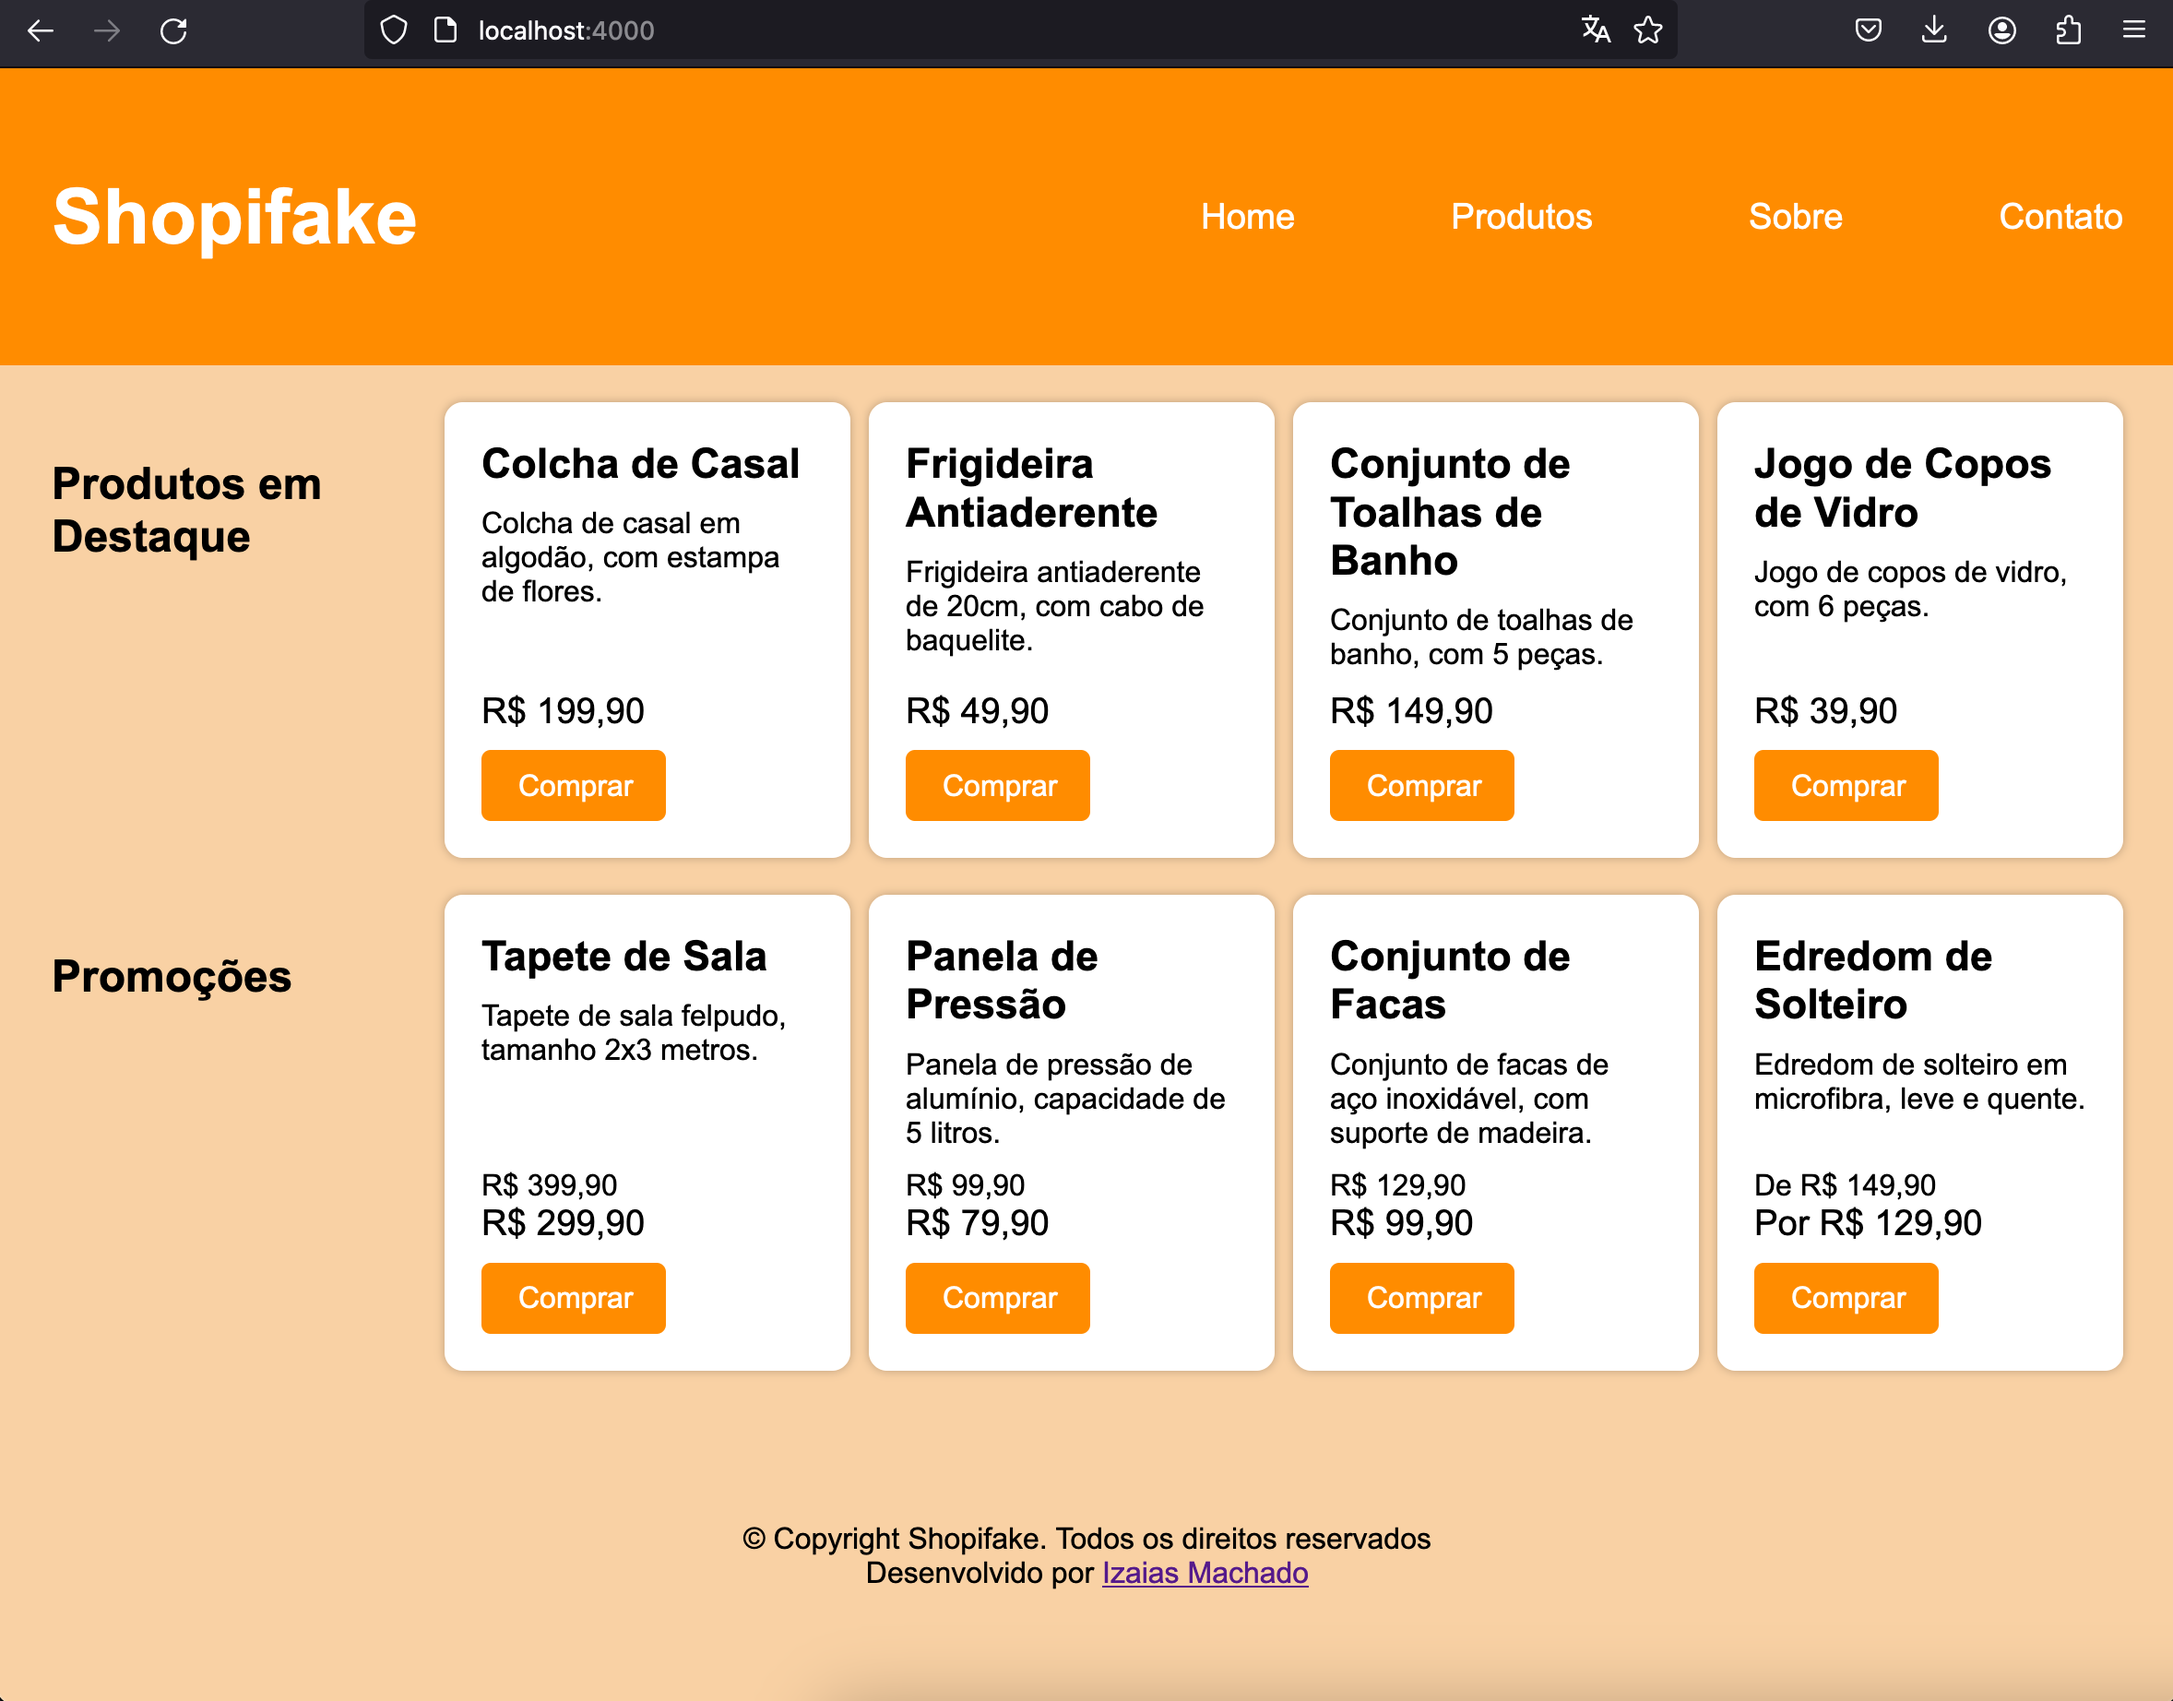
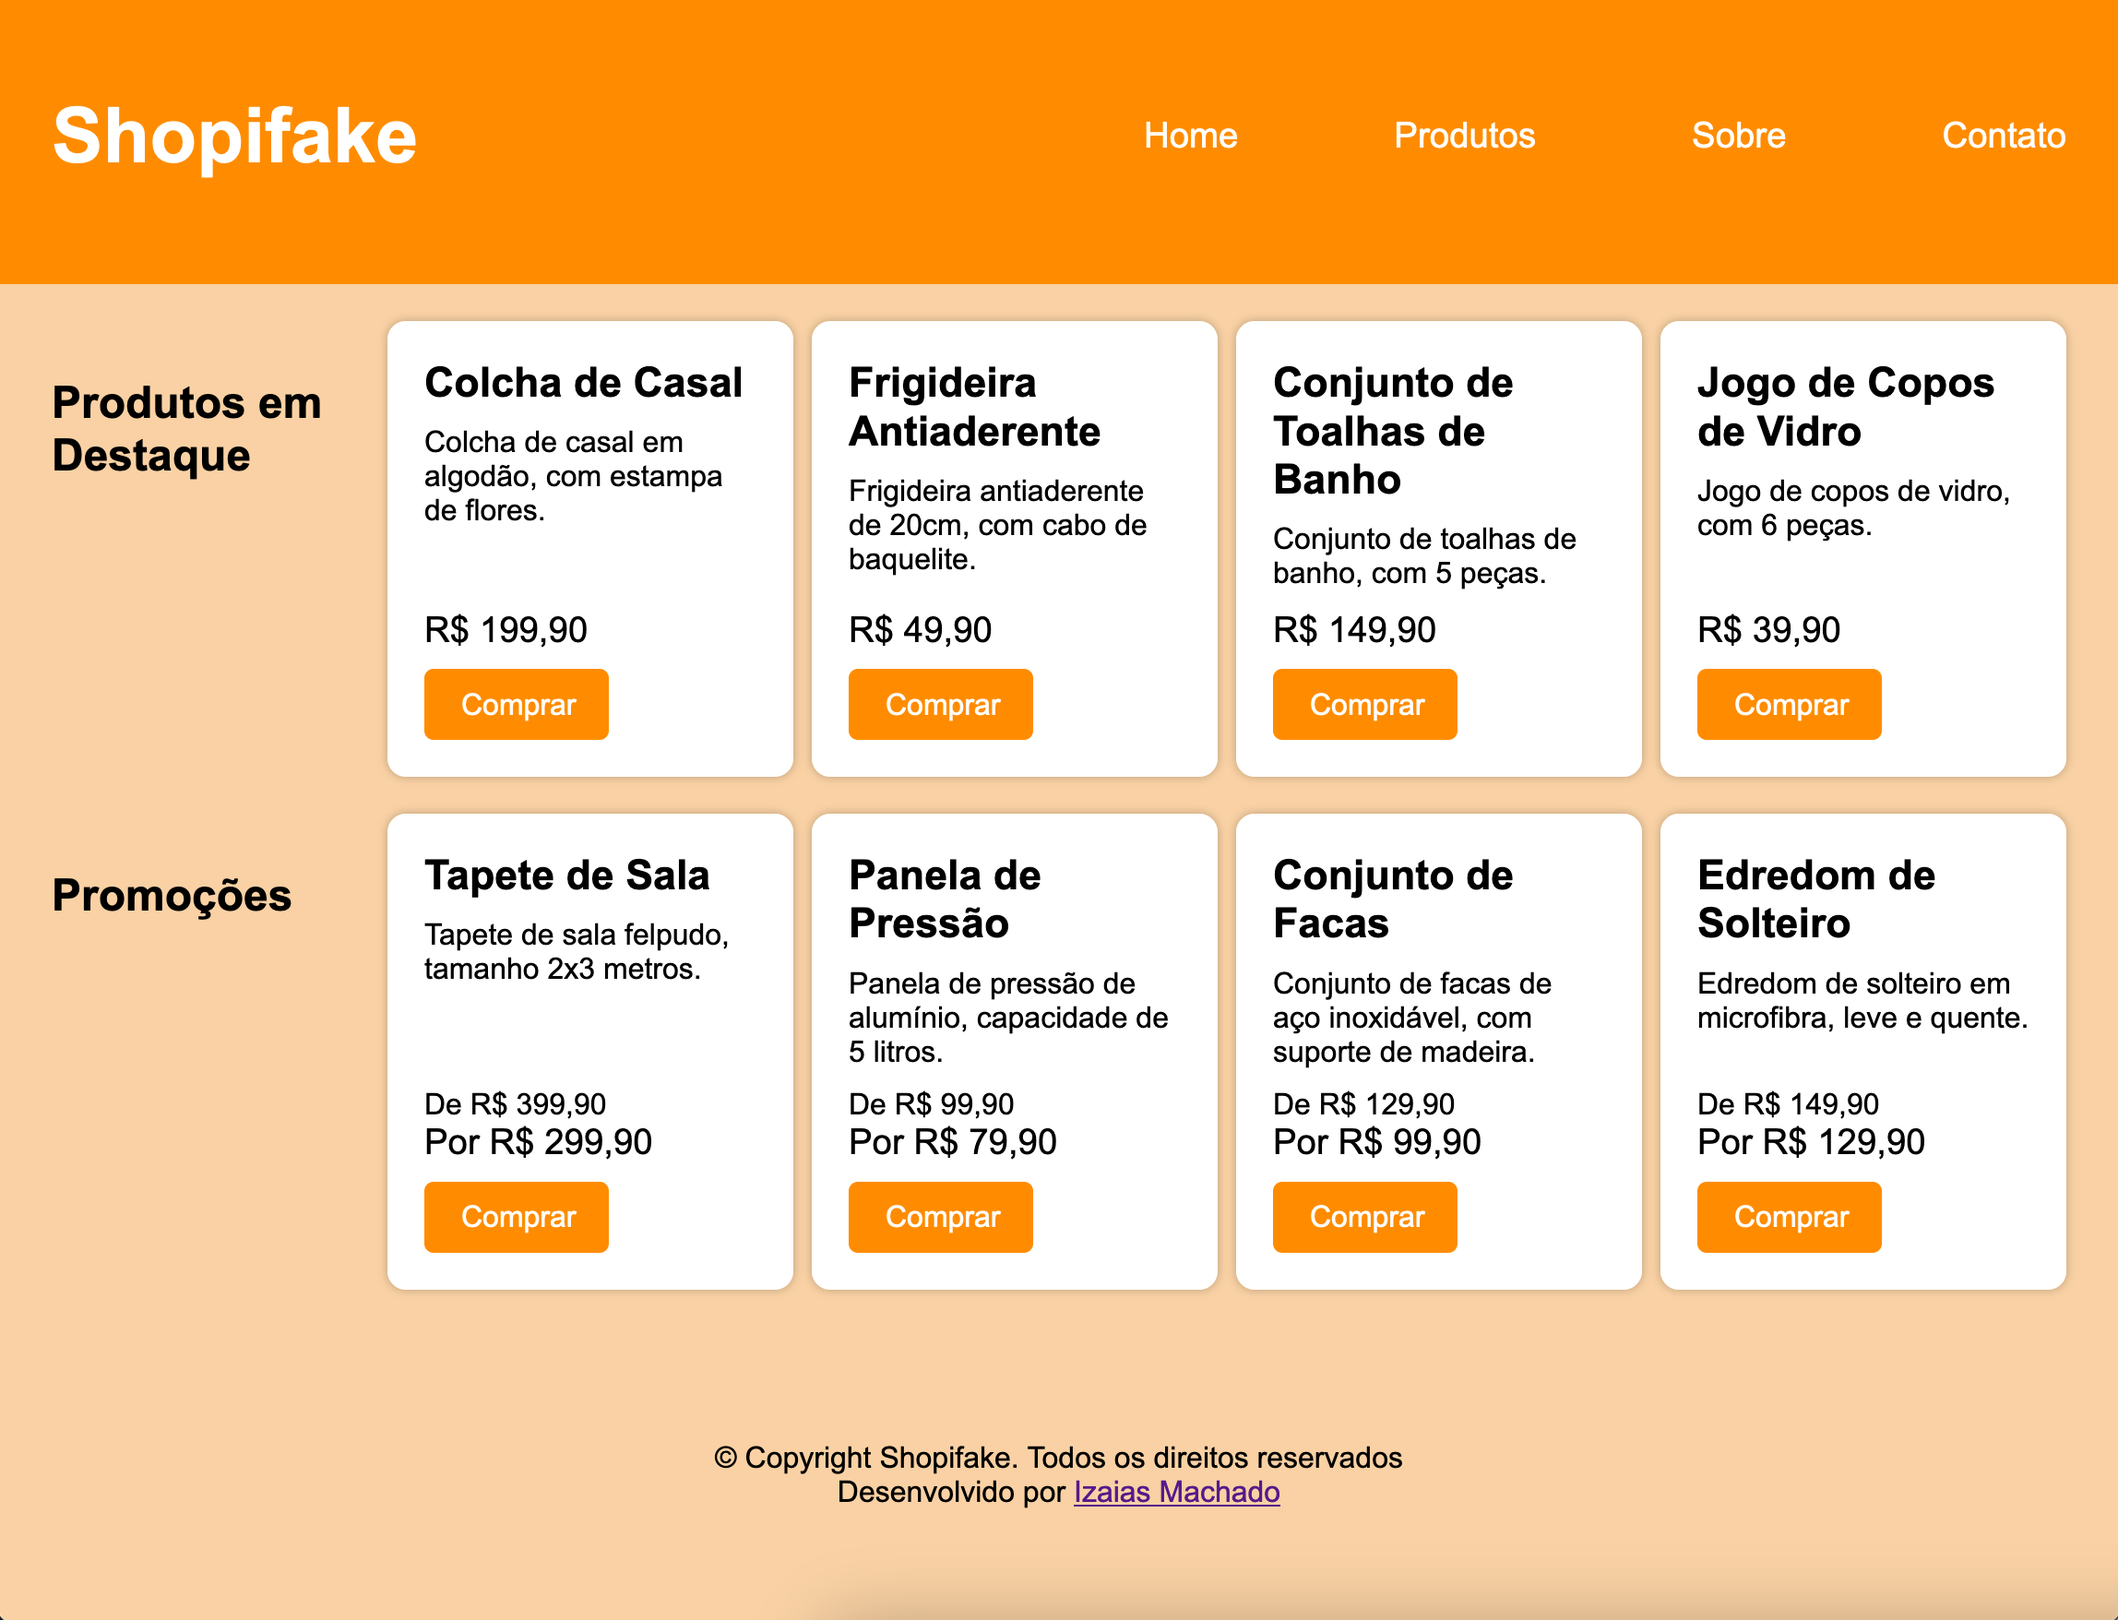
fix: add promotional deals

diff --git a/assignments/simple-http-server/public/index.html b/assignments/simple-http-server/public/index.html
@@ -84,8 +84,8 @@
                 </div>
               </div>
               <div class="ProductCard__Price">
-                <span class="ProductCard__NormalPrice">R$ 399,90</span>
-                <span class="ProductCard__PromoPrice">R$ 299,90</span>
+                <span class="ProductCard__NormalPrice">De R$ 399,90</span>
+                <span class="ProductCard__PromoPrice">Por R$ 299,90</span>
               </div>
               <div class="ProductCard__BuyButton">Comprar</div>
             </div>
@@ -97,8 +97,8 @@
                 </div>
               </div>
               <div class="ProductCard__Price">
-                <span class="ProductCard__NormalPrice">R$ 99,90</span>
-                <span class="ProductCard__PromoPrice">R$ 79,90</span>
+                <span class="ProductCard__NormalPrice">De R$ 99,90</span>
+                <span class="ProductCard__PromoPrice">Por R$ 79,90</span>
               </div>
               <div class="ProductCard__BuyButton">Comprar</div>
             </div>
@@ -110,8 +110,8 @@
                 </div>
               </div>
               <div class="ProductCard__Price">
-                <span class="ProductCard__NormalPrice">R$ 129,90</span>
-                <span class="ProductCard__PromoPrice">R$ 99,90</span>
+                <span class="ProductCard__NormalPrice">De R$ 129,90</span>
+                <span class="ProductCard__PromoPrice">Por R$ 99,90</span>
               </div>
               <div class="ProductCard__BuyButton">Comprar</div>
             </div>
